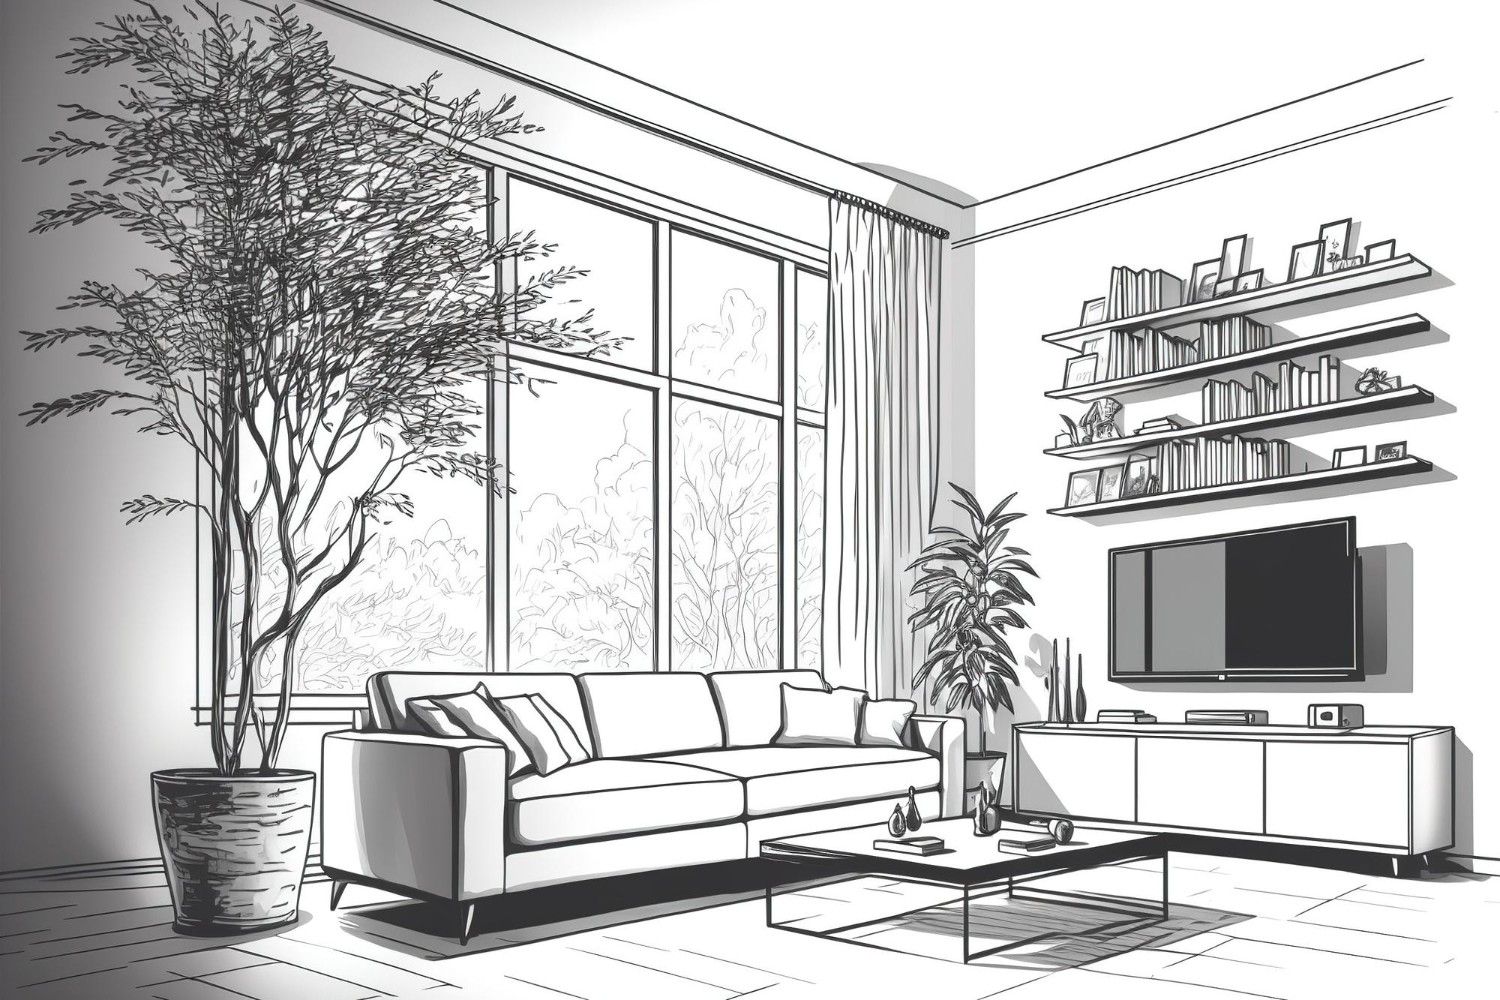
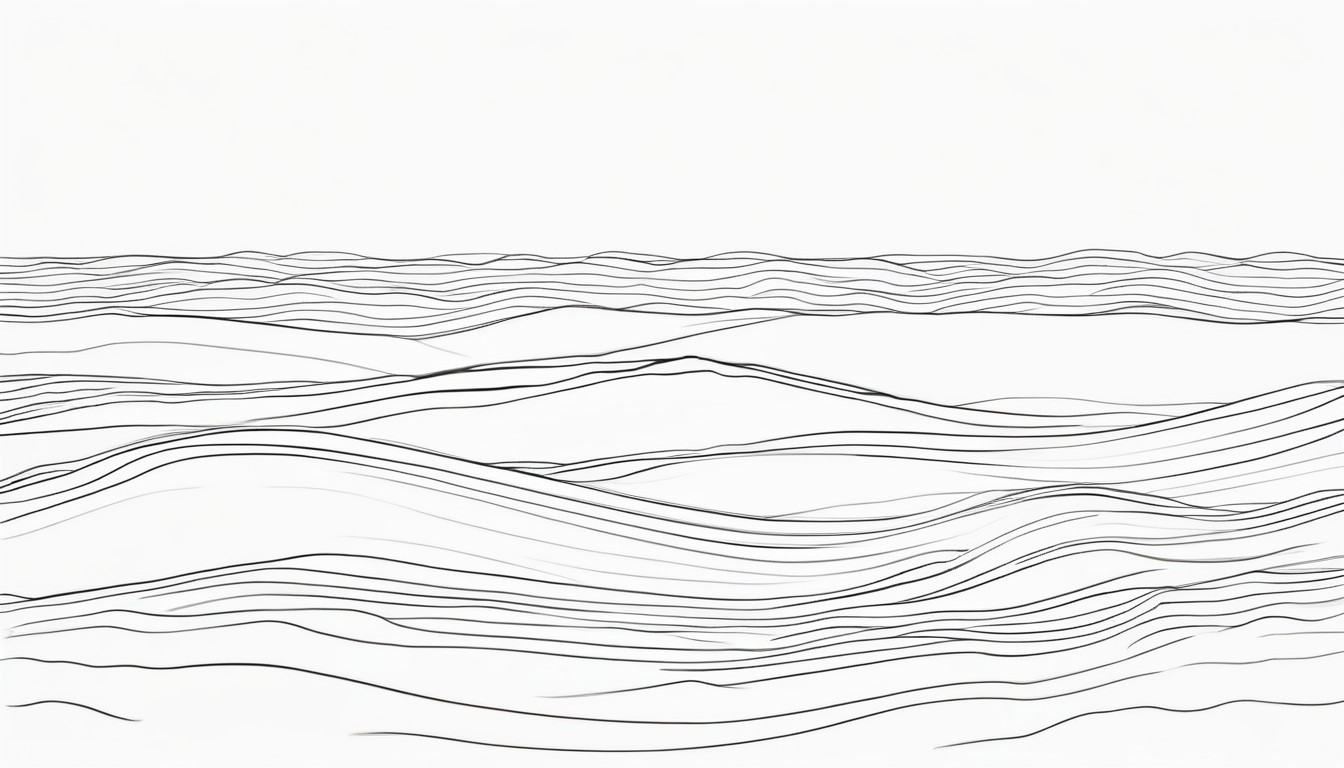
Background image to be changed from houses to waves. https://fullscreendigital.atlassian.net/browse/LOS-204

diff --git a/client/src/pages/HomeLoggedIn/HomeLoggedIn.tsx b/client/src/pages/HomeLoggedIn/HomeLoggedIn.tsx
@@ -9,7 +9,9 @@ import { SectionThree } from './HomeLoggedIn.SectionThree';
 import { SectionFour } from './HomeLoggedIn.SectionFour';
 import { SectionFive } from './HomeLoggedIn.SectionFive';
 import Can from '../../components/Can';
-import backgroundImg from '../About/sectionOne.About.png';
+// import backgroundImg from '../About/sectionOne.About.png';
+import backgroundImg from './home-background.png';
+
 import { CASLAction } from '../../utils/ability.util';
 
 export const HomeLoggedIn = styled(({ className = '' }: React.HTMLAttributes<HTMLDivElement>) => {
